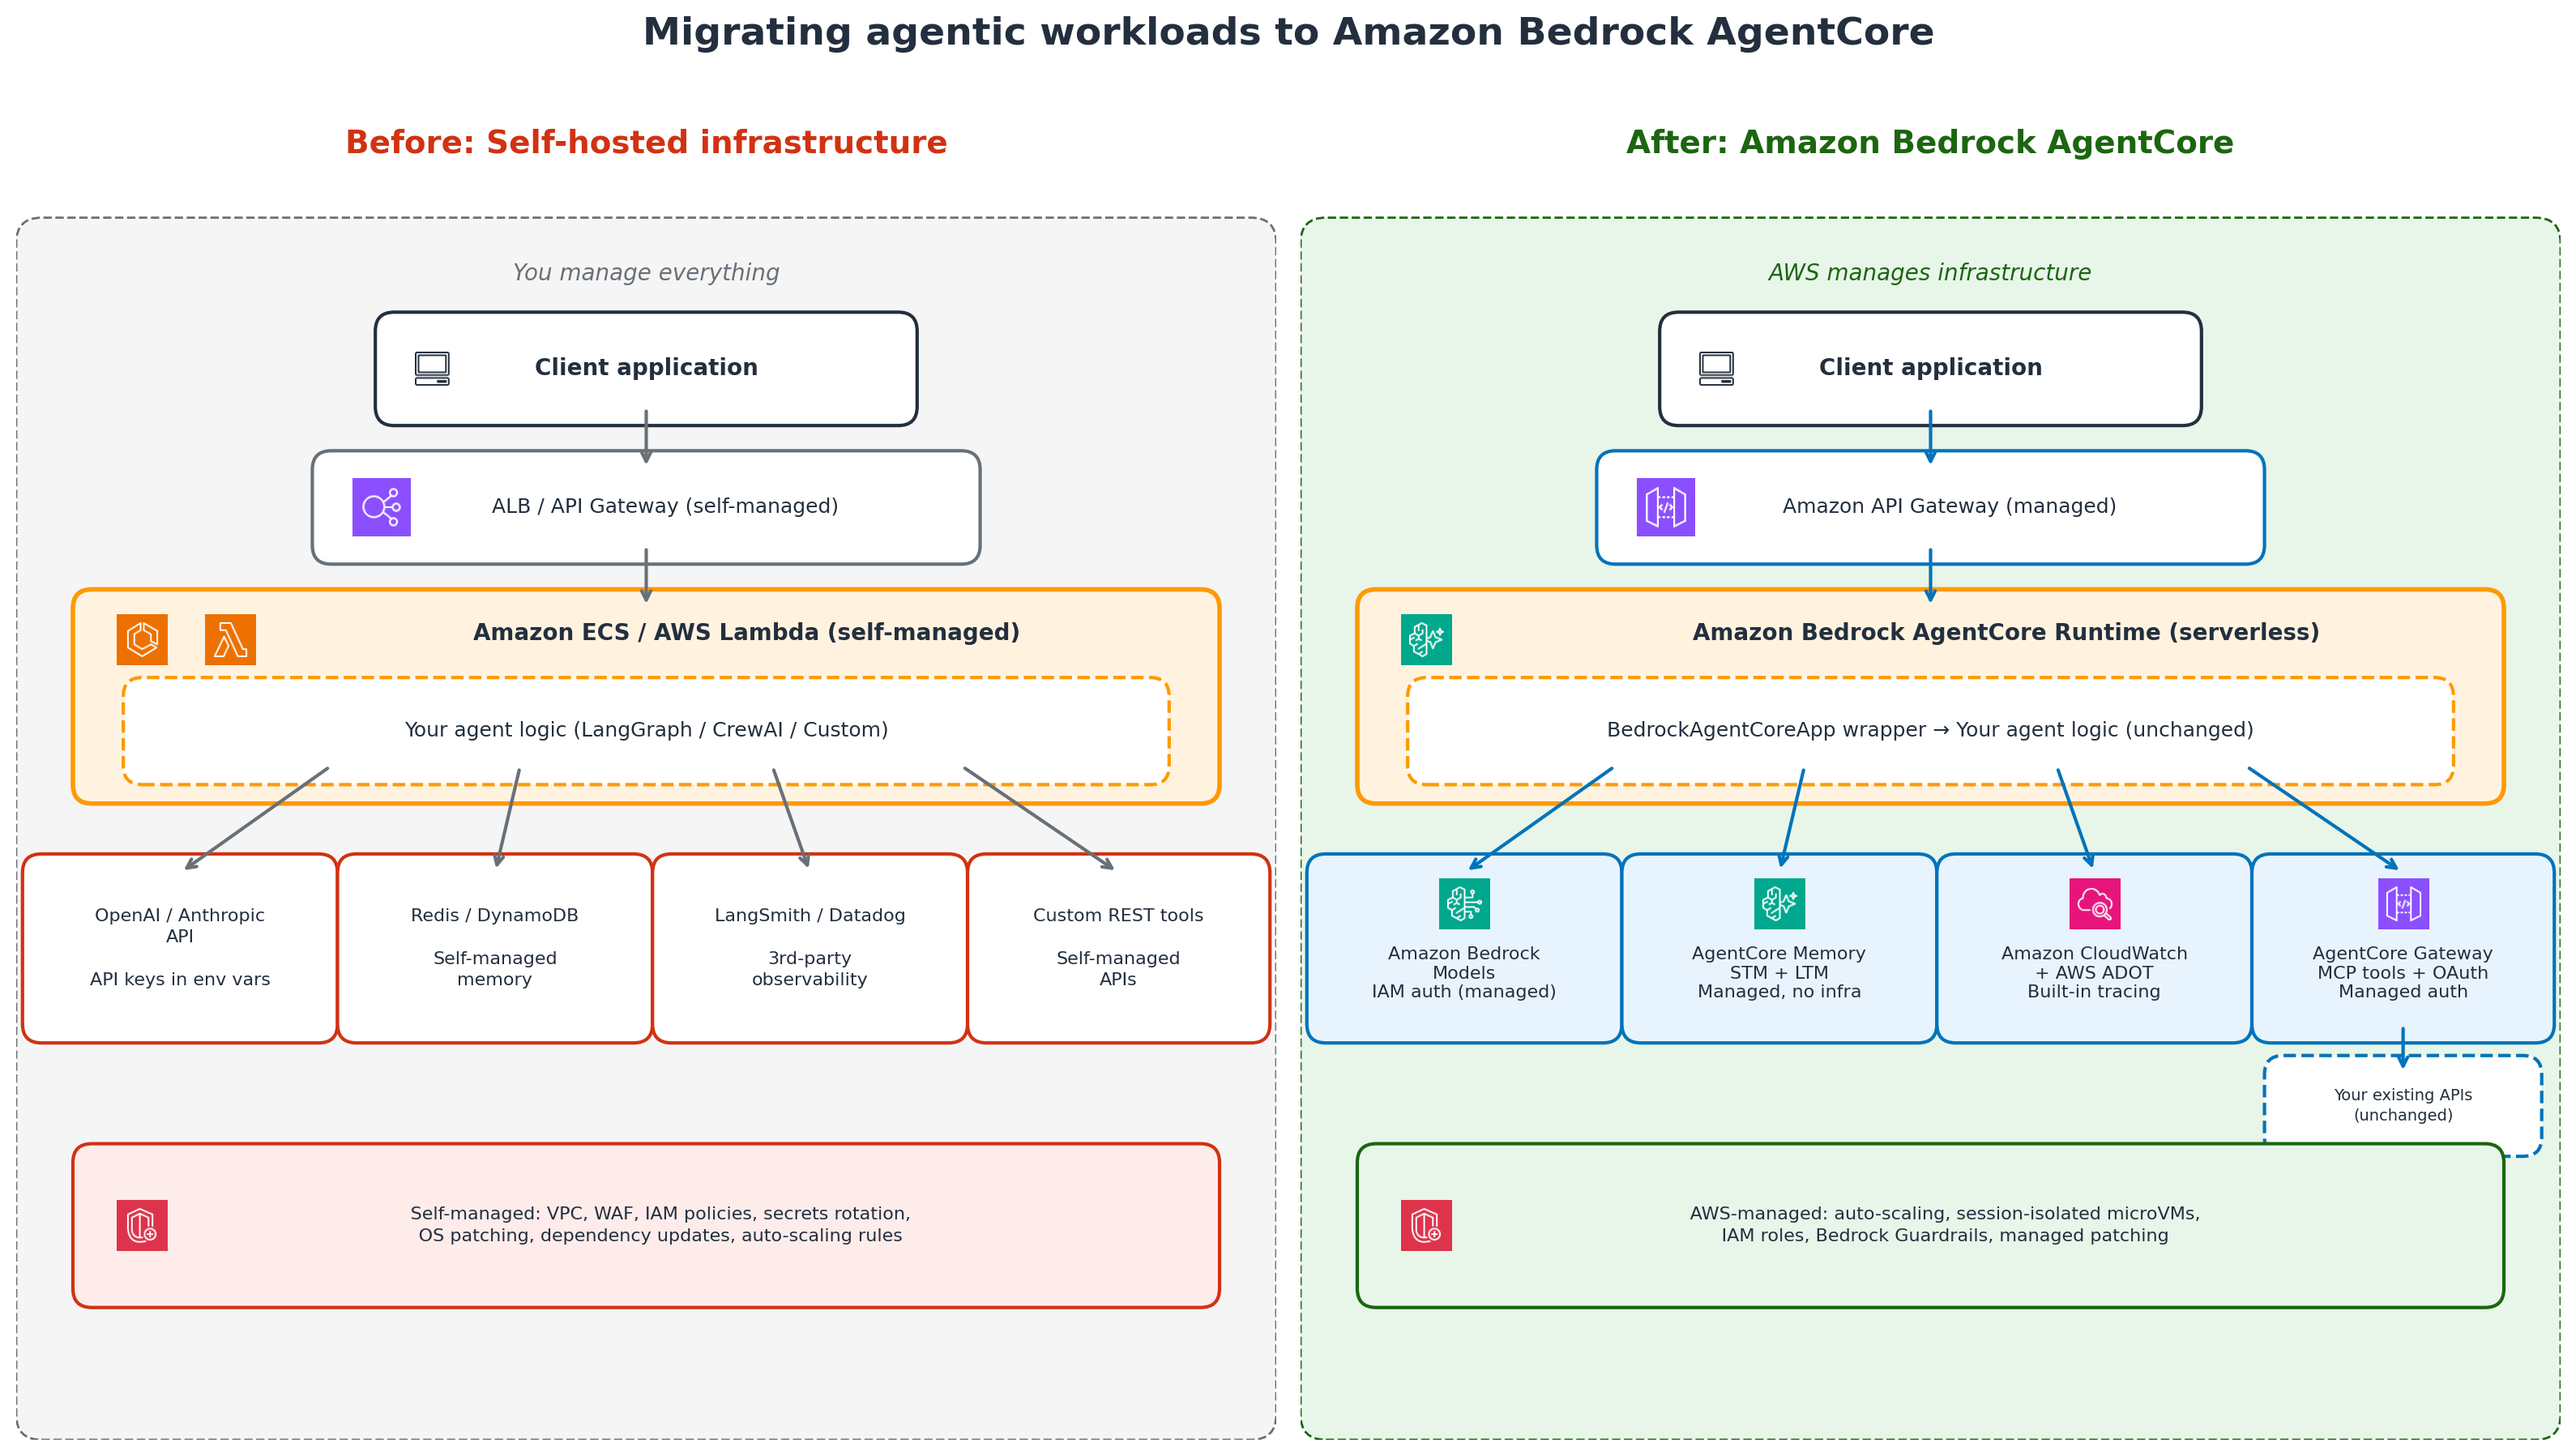
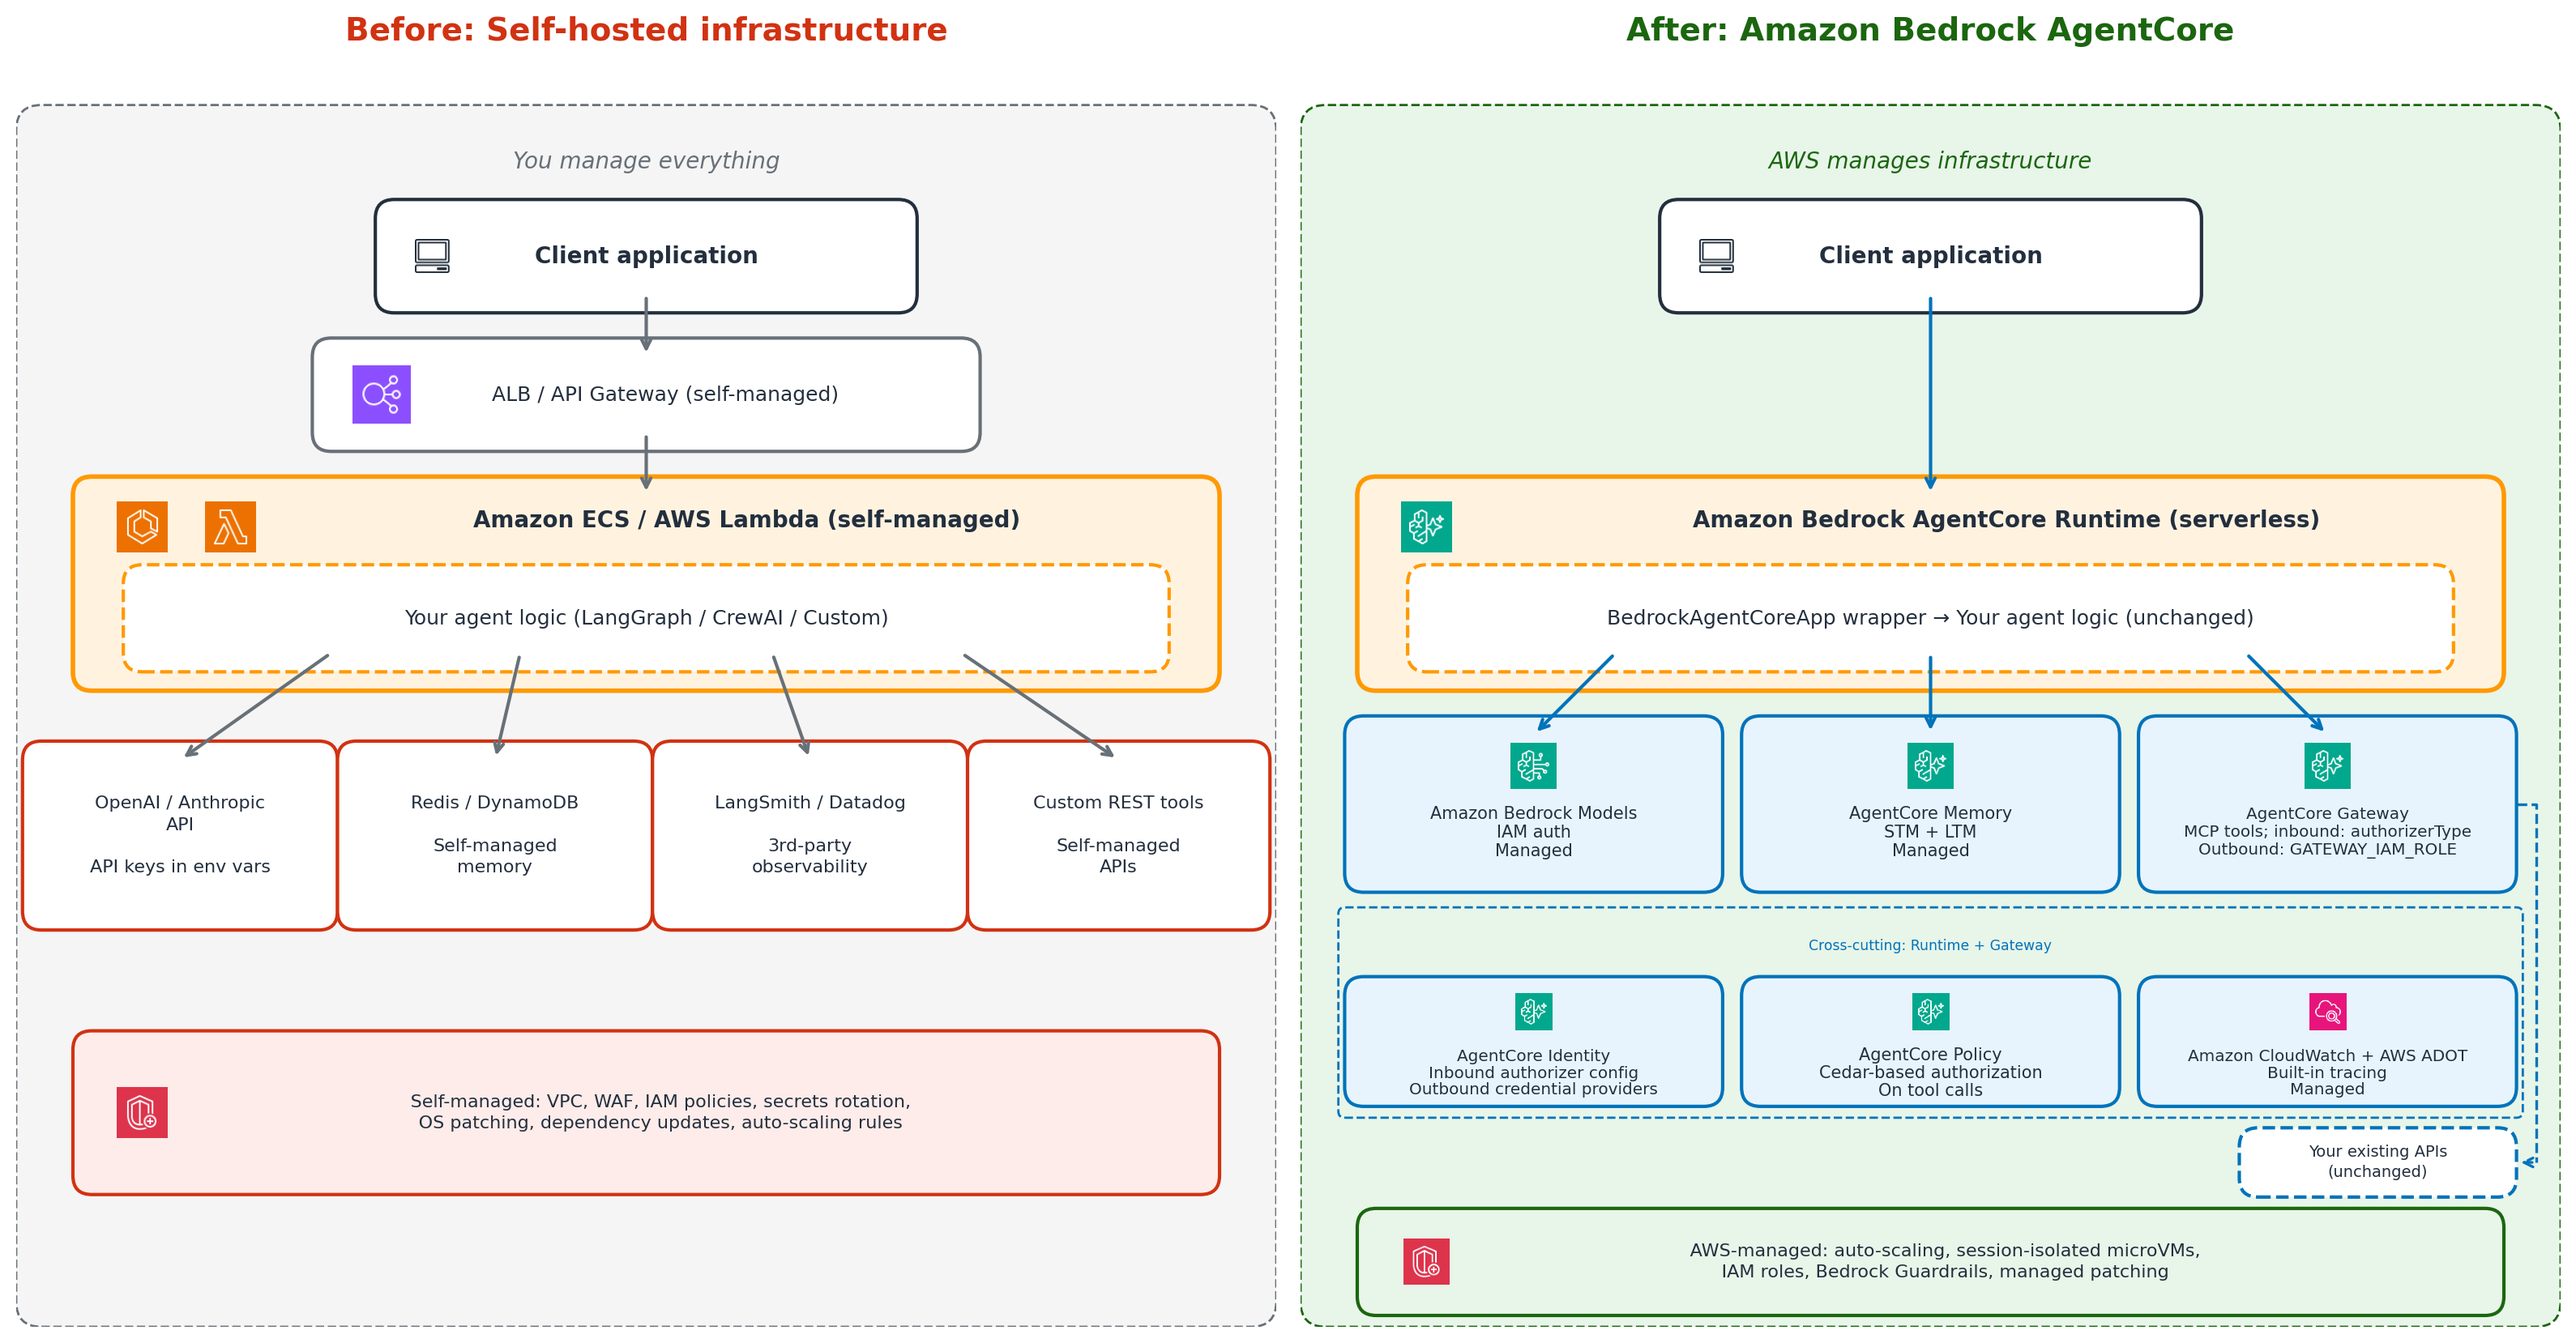
docs: refresh architecture diagram and README accuracy
Replace the architecture image with a regenerated version. The after
column now shows AgentCore Identity and AgentCore Policy, drops an
Amazon API Gateway box the walkthrough never uses, and states inbound
authorization via authorizerType with outbound credentials via the
gateway IAM role. The previous image claimed OAuth, which contradicts
the AWS_IAM authorizer the samples actually create. Flattened to RGB.

Update the image alt text to describe the current diagram. Note that
the third migration path described in the post has no sample code
here. Replace the generic cleanup steps with the real teardown order:
gateway target before gateway, since deleting a gateway with an
attached target returns ValidationException, plus the two IAM roles
that deploy.sh creates.

diff --git a/README.md b/README.md
@@ -6,7 +6,7 @@ This repository contains sample code for the AWS blog post [Migrating agentic wo
 
 ## Architecture
 
-![Migration architecture from self-hosted to Amazon Bedrock AgentCore](images/agentcore-migration-architecture.png)
+![Before and after a migration to Amazon Bedrock AgentCore. The left column shows self-hosted infrastructure: a load balancer, agent logic on Amazon ECS or AWS Lambda, a third-party model API, self-managed memory, third-party observability, and custom REST tools. The right column shows AgentCore Runtime hosting the same agent logic, with Amazon Bedrock models, AgentCore Memory, AgentCore Gateway fronting existing APIs, and a cross-cutting row holding AgentCore Identity, AgentCore Policy, and Amazon CloudWatch with AWS ADOT.](images/agentcore-migration-architecture.png)
 
 ## Overview
 
@@ -14,6 +14,8 @@ The samples show two migration paths:
 
 - **Replatform**: Wrap your existing agent (LangGraph, CrewAI) with `BedrockAgentCoreApp` to run on AgentCore Runtime without rewriting agent logic.
 - **Rebuild**: Rewrite your agent using the [Strands Agents SDK](https://github.com/strands-agents/sdk-python) for tighter AgentCore integration and model-driven orchestration.
+
+The blog post describes a third path, handing the orchestration loop to the AgentCore harness, which has no sample code in this repository.
 
 ## Repository structure
 
@@ -136,12 +138,16 @@ argument or environment variable (`GATEWAY_ID`, `GATEWAY_URL`,
 
 ## Clean up
 
-If you created AWS resources while following the examples, delete them to avoid ongoing charges:
+If you created AWS resources while following the examples, delete them to avoid ongoing charges.
 
-1. Remove AgentCore Runtime deployments from the [Amazon Bedrock console](https://console.aws.amazon.com/bedrock/).
-2. Delete AgentCore Gateway API configurations.
-3. Remove AgentCore Memory stores.
-4. Delete the test IAM roles or policies you created.
+Passing `--teardown` to `examples/run_walkthrough.py` deletes what the walkthrough created, in the required order: the gateway target first, then the gateway once target deletion has finished, then the memory resource. Deleting a gateway that still has a target attached returns `ValidationException`.
+
+To remove resources by hand:
+
+1. Delete the gateway target, then the gateway, in that order.
+2. Delete the AgentCore Memory resource.
+3. Delete the Lambda function and the two IAM roles created by `examples/gateway/lambda_target/deploy.sh`, which are the Lambda execution role and the gateway execution role.
+4. Remove any AgentCore Runtime deployment from the [Amazon Bedrock console](https://console.aws.amazon.com/bedrock/).
 
 ## Security
 
